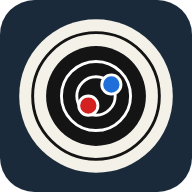
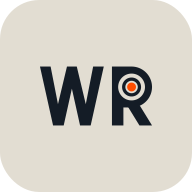
WRbeta beta v2.0.1（v2.0.1）：新 App 圖示

diff --git a/index.html b/index.html
@@ -5,10 +5,10 @@
 <meta name="viewport" content="width=device-width, initial-scale=1, viewport-fit=cover">
 <meta name="theme-color" content="#1b2a3a">
 <title>WRbeta</title>
-<link rel="manifest" href="manifest.webmanifest?v=v2.0.0">
-<link rel="icon" href="icon.svg">
-<link rel="apple-touch-icon" href="icon-192.png">
-<!--STYLE--><link rel="stylesheet" href="style.css?v=v2.0.0"><link rel="stylesheet" href="themes.css?v=v2.0.0"><!--/STYLE-->
+<link rel="manifest" href="manifest.webmanifest?v=v2.0.1">
+<link rel="icon" href="icon.svg?v=v2.0.1">
+<link rel="apple-touch-icon" href="apple-touch-icon.png?v=v2.0.1">
+<!--STYLE--><link rel="stylesheet" href="style.css?v=v2.0.1"><link rel="stylesheet" href="themes.css?v=v2.0.1"><!--/STYLE-->
 </head>
 <body>
 <header>
@@ -419,19 +419,19 @@
   </div>
 </div>
 <div id="toast"></div>
-<!--CORE--><script src="core.js?v=v2.0.0"></script><!--/CORE-->
-<!--CODEC--><script src="recordcode.js?v=v2.0.0"></script><!--/CODEC-->
-<!--LITEFLOW--><script src="liteflow.js?v=v2.0.0"></script><!--/LITEFLOW-->
-<!--VISION--><script src="vision.js?v=v2.0.0"></script><!--/VISION-->
-<!--FBCFG--><script src="firebase-config.js?v=v2.0.0"></script><!--/FBCFG-->
-<!--CLOUD--><script src="cloud.js?v=v2.0.0"></script><!--/CLOUD-->
-<!--MEMBER--><script src="member.js?v=v2.0.0"></script><!--/MEMBER-->
-<!--GHOST--><script src="ghost.js?v=v2.0.0"></script><!--/GHOST-->
-<!--PRESS--><script src="press.js?v=v2.0.0"></script><!--/PRESS-->
-<!--XHAIR--><script src="crosshair.js?v=v2.0.0"></script><!--/XHAIR-->
-<!--THEMEFX--><script src="themefx.js?v=v2.0.0"></script><!--/THEMEFX-->
-<!--LAYOUT--><script src="layout.js?v=v2.0.0"></script><!--/LAYOUT-->
-<!--DOCK--><script src="dock.js?v=v2.0.0"></script><!--/DOCK-->
-<!--APP--><script src="app.js?v=v2.0.0"></script><!--/APP-->
+<!--CORE--><script src="core.js?v=v2.0.1"></script><!--/CORE-->
+<!--CODEC--><script src="recordcode.js?v=v2.0.1"></script><!--/CODEC-->
+<!--LITEFLOW--><script src="liteflow.js?v=v2.0.1"></script><!--/LITEFLOW-->
+<!--VISION--><script src="vision.js?v=v2.0.1"></script><!--/VISION-->
+<!--FBCFG--><script src="firebase-config.js?v=v2.0.1"></script><!--/FBCFG-->
+<!--CLOUD--><script src="cloud.js?v=v2.0.1"></script><!--/CLOUD-->
+<!--MEMBER--><script src="member.js?v=v2.0.1"></script><!--/MEMBER-->
+<!--GHOST--><script src="ghost.js?v=v2.0.1"></script><!--/GHOST-->
+<!--PRESS--><script src="press.js?v=v2.0.1"></script><!--/PRESS-->
+<!--XHAIR--><script src="crosshair.js?v=v2.0.1"></script><!--/XHAIR-->
+<!--THEMEFX--><script src="themefx.js?v=v2.0.1"></script><!--/THEMEFX-->
+<!--LAYOUT--><script src="layout.js?v=v2.0.1"></script><!--/LAYOUT-->
+<!--DOCK--><script src="dock.js?v=v2.0.1"></script><!--/DOCK-->
+<!--APP--><script src="app.js?v=v2.0.1"></script><!--/APP-->
 </body>
 </html>

diff --git a/sw.js b/sw.js
@@ -2,10 +2,10 @@
 // 更新策略：網頁本體（HTML、JS、CSS、manifest）一律「先抓網路，失敗才用快取」→ 有網路時永遠是最新版；
 // 圖示等靜態檔才用快取優先。安裝時用 cache:'reload' 跳過 HTTP 快取（GitHub Pages 會快取 10 分鐘），避免把舊檔存進新快取。
 // 新版啟用後：刪掉所有舊快取（含 bm-v3/v4 時代的），接管頁面，並讓開著的舊頁面自動重新載入一次。
-var VERSION = 'v2.0.0';
+var VERSION = 'v2.0.1';
 var CACHE = 'wrbeta-' + VERSION;
 var SHELL = ['./', 'index.html', 'style.css', 'core.js', 'recordcode.js', 'liteflow.js', 'vision.js', 'firebase-config.js', 'cloud.js', 'member.js', 'ghost.js', 'press.js', 'crosshair.js', 'themes.css', 'themefx.js', 'layout.js', 'dock.js', 'app.js', 'manifest.webmanifest', 'privacy.html'];
-var STATIC = ['icon.svg', 'icon-192.png', 'icon-512.png', 'fonts/wr-chakra-700.woff', 'fonts/wr-rajdhani-700.woff', 'fonts/wr-saira-700.woff', 'fonts/wr-orbitron-800.woff', 'fonts/wr-playfair-700.woff'];
+var STATIC = ['icon.svg', 'icon-192.png', 'icon-512.png', 'icon-maskable-192.png', 'icon-maskable-512.png', 'apple-touch-icon.png', 'fonts/wr-chakra-700.woff', 'fonts/wr-rajdhani-700.woff', 'fonts/wr-saira-700.woff', 'fonts/wr-orbitron-800.woff', 'fonts/wr-playfair-700.woff'];
 self.addEventListener('install', function (e) {
   self.skipWaiting();
   e.waitUntil(caches.open(CACHE).then(function (c) {

diff --git a/app.js b/app.js
@@ -1,7 +1,7 @@
 (function () {
   'use strict';
   // App 名稱與版本：只改這裡（標題列、說明分頁、匯出檔都讀這兩個常數）
-  var APP_NAME = 'WRbeta', APP_VERSION = 'v2.0.0', APP_LABEL = 'beta v2.0'; // v2.0.0：畫面上顯示「beta v2.0」
+  var APP_NAME = 'WRbeta', APP_VERSION = 'v2.0.1', APP_LABEL = 'beta v2.0.1'; // v2.0.0：畫面上顯示「beta v2.0」；v2.0.1（新圖示）顯示「beta v2.0.1」
   var C = window.BMCore, T = C.TARGETS, NS = 'http://www.w3.org/2000/svg';
   try { var _v = document.getElementById('appVer'); if (_v) _v.textContent = APP_LABEL; var _a = document.getElementById('aboutVer'); if (_a) _a.textContent = APP_LABEL + '（' + APP_VERSION + '）'; document.title = APP_NAME; } catch (e) {}
   var LS_SESS = 'bm_sessions_v1', LS_CUR = 'bm_current_v1', LS_PREF = 'bm_prefs_v1';

diff --git a/privacy.html b/privacy.html
@@ -5,7 +5,7 @@
 <meta name="viewport" content="width=device-width, initial-scale=1, viewport-fit=cover">
 <meta name="theme-color" content="#f2ecdd">
 <title>WRbeta 隱私權政策</title>
-<link rel="icon" href="icon.svg">
+<link rel="icon" href="icon.svg?v=v2.0.1">
 <style>
 :root{color-scheme:light}
 body{margin:0;background:#f2ecdd;color:#1d1d1b;font:16px/1.7 -apple-system,BlinkMacSystemFont,"Segoe UI","Noto Sans TC","PingFang TC","Microsoft JhengHei",sans-serif}
